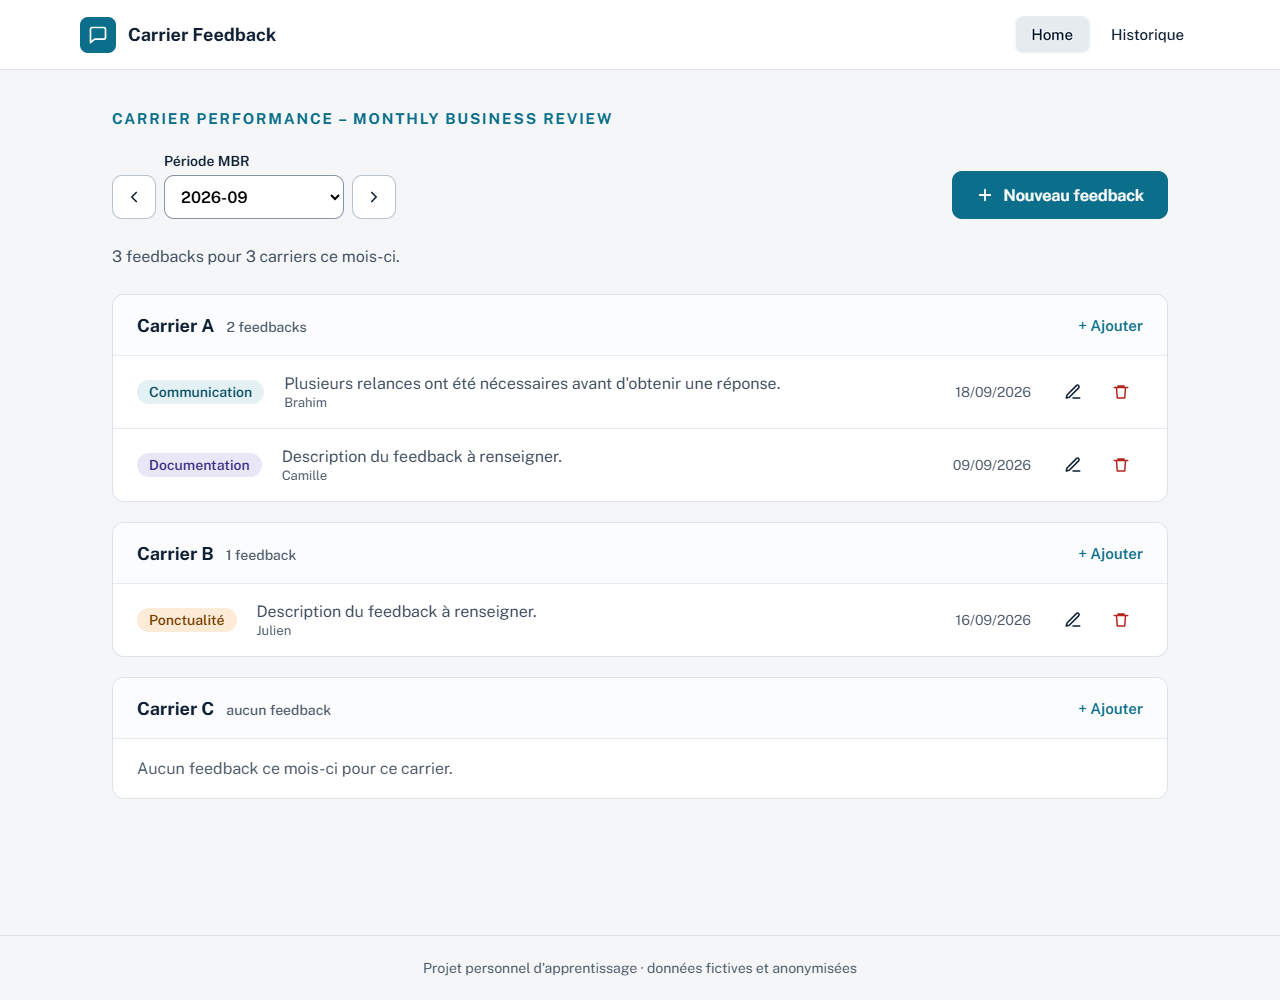
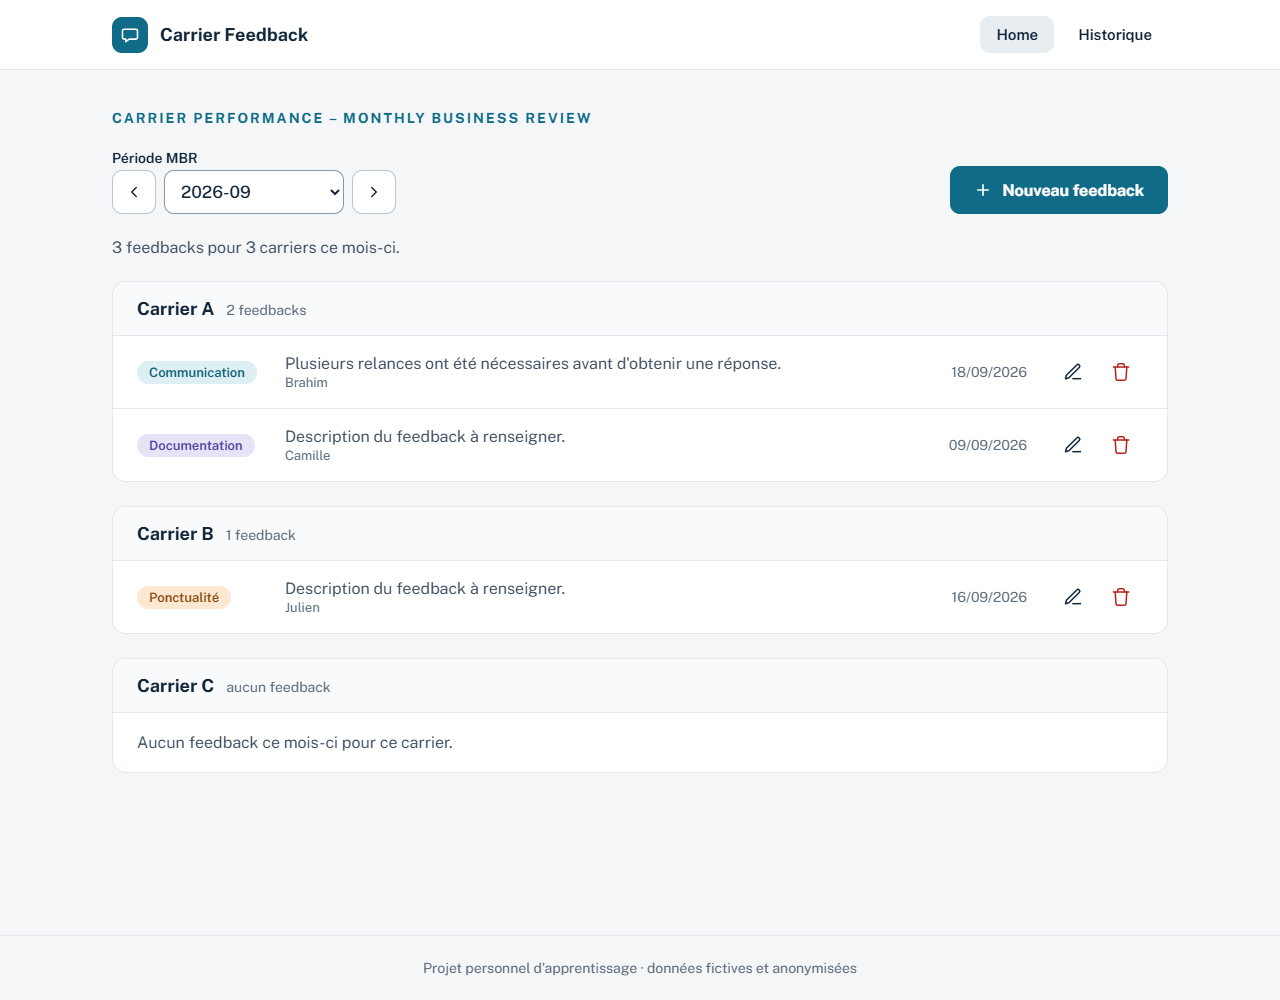
add routes, screens and mockups to README

diff --git a/README.md b/README.md
@@ -110,6 +110,8 @@ description
 createdAt
 ```
 
+Les maquettes utilisent trois catégories : Communication, Ponctualité et Documentation.
+
 ---
 
 ## Relations
@@ -150,45 +152,115 @@ Chaque feedback est associé à un seul carrier et à un seul auteur.
 | US-02 | En tant qu'utilisateur, je souhaite choisir un mois et voir les feedbacks par carrier afin de préparer la MBR. | Sélecteur de période. Un bloc par carrier avec ses feedbacks et leur auteur. Carriers sans feedback affichés. |
 | US-03 | En tant qu'utilisateur, je souhaite modifier un feedback. | Pop-up préremplie, données sauvegardées. |
 | US-04 | En tant qu'utilisateur, je souhaite supprimer un feedback. | Pop-up de confirmation avant suppression. |
-| US-05 | En tant qu'utilisateur, je souhaite filtrer l'historique des feedbacks. | Filtre par carrier, période MBR et catégorie, combinables. |
+| US-05 | En tant qu'utilisateur, je souhaite filtrer l'historique des feedbacks. | Filtre par carrier, période MBR et catégorie, combinables. Bouton de réinitialisation des filtres. |
 
 ---
 
 ## Écrans du MVP
 
-L'application compte **2 pages** et **3 pop-ups**.
+L'application compte **2 pages** et **3 pop-ups**. Toutes les pages partagent la même barre de navigation (logo « Carrier Feedback », onglets **Home** et **Historique**) et un pied de page rappelant que les données sont fictives et anonymisées.
 
 ### Pages
 
-#### Préparer la MBR (page d'accueil, `/`)
+#### Home (page d'accueil, `/`)
 
-- titre « Carrier Performance – Monthly Business Review » ;
-- sélecteur de période MBR (avec passage au mois précédent ou suivant) ;
-- un bloc par carrier avec ses feedbacks, l'auteur et les actions Modifier / Supprimer ;
-- bouton « Nouveau feedback » et bouton « Ajouter » par carrier.
+Page de préparation de la MBR.
+
+- sur-titre « Carrier Performance – Monthly Business Review » ;
+- sélecteur de période MBR (liste déroulante, avec boutons mois précédent / mois suivant) ;
+- bouton « + Nouveau feedback » ;
+- résumé de la période (ex. « 3 feedbacks pour 3 carriers ce mois-ci ») ;
+- un bloc par carrier, avec son nombre de feedbacks ;
+- pour chaque feedback : catégorie (badge), description, auteur, date et actions Modifier / Supprimer (icônes) ;
+- pour un carrier sans feedback : le message « Aucun feedback ce mois-ci pour ce carrier. »
 
 #### Historique (`/feedbacks`)
 
-- historique complet des feedbacks ;
-- filtres de recherche (carrier, période MBR, catégorie) ;
-- affichage regroupé par période MBR ou en liste simple (optionnel).
+- titre et sous-titre « Retrouvez un ancien retour, toutes périodes confondues. » ;
+- bouton « + Nouveau feedback » ;
+- filtres carrier, période MBR et catégorie (listes déroulantes, par défaut « Tous les carriers », « Toutes les périodes », « Toutes les catégories ») et bouton « Réinitialiser » ;
+- nombre de feedbacks affichés ;
+- bascule d'affichage : « Par période MBR » (par défaut, un groupe par mois) ou « Liste simple » ;
+- pour chaque feedback : carrier, catégorie, description, auteur, date et actions Modifier / Supprimer (icônes).
 
 ### Pop-ups
 
 #### Nouveau feedback
 
-- carrier, période MBR, catégorie, description ;
-- auteur choisi dans un menu déroulant.
+- carrier, période MBR (préremplie), catégorie, description ;
+- auteur choisi dans un menu déroulant (« Sélectionner votre nom ») ;
+- boutons « Annuler » et « Enregistrer », fermeture possible avec la croix ;
+- le bouton « + Nouveau feedback » est le seul point d'entrée de la création (Home et Historique) : le carrier se choisit dans la pop-up.
 
 #### Modification d'un feedback
 
 - même formulaire que la création, prérempli ;
-- date de création affichée, non modifiable.
+- date de création affichée (« Créé le 18/09/2026 »), non modifiable ;
+- boutons « Annuler » et « Enregistrer les modifications ».
 
 #### Confirmation de suppression
 
-- rappel du feedback concerné ;
+- titre « Supprimer ce feedback ? » et avertissement : l'action est définitive ;
+- rappel du feedback concerné (carrier · catégorie · période MBR, puis description) ;
 - boutons « Annuler » et « Supprimer ».
+
+### Maquettes
+
+Les captures sont rangées dans `docs/maquettes/`.
+
+| Écran | Fichier |
+|-------|---------|
+| Home | `Home_page.png` |
+| Historique | `History_of_feedbacks.png` |
+| Nouveau feedback | `New_feedback_popup.png` |
+| Modification d'un feedback | `Edit_a_feedback_popup.png` |
+| Confirmation de suppression | `Delete_a_feedback.png` |
+
+![Page Home](docs/maquettes/Home_page.png)
+
+![Page Historique](docs/maquettes/History_of_feedbacks.png)
+
+---
+
+## Routes
+
+### Routes front-end (pages)
+
+| Route | Page | Rôle |
+|-------|------|------|
+| `/` | Home | Préparer la MBR : choisir une période et voir les feedbacks regroupés par carrier |
+| `/feedbacks` | Historique | Consulter tous les feedbacks avec filtres |
+
+Les trois pop-ups (création, modification, suppression) ne sont pas des routes : ce sont des composants qui s'ouvrent par-dessus ces deux pages.
+
+Le mois sélectionné et les filtres sont conservés dans l'URL (paramètres de requête), ce qui permet de retrouver ou de partager une vue précise sans ajouter de route :
+
+```text
+/?mbr=2026-09
+/feedbacks?carrier=1&mbr=2026-09&category=Communication
+```
+
+### Routes back-end (API)
+
+Ces routes seront implémentées en **phase 3**, avec PostgreSQL. Pendant le prototype (phase 2), les pages lisent des données de démonstration via la couche d'accès `src/lib/data`, qui reprend la même logique que ces routes pour faciliter le passage à la base de données.
+
+| Méthode | Route | Rôle |
+|---------|-------|------|
+| `GET` | `/api/carriers` | Lister les carriers |
+| `GET` | `/api/authors` | Lister les auteurs (alimente le menu déroulant) |
+| `GET` | `/api/feedbacks` | Lister les feedbacks, avec filtres optionnels `carrierId`, `mbrPeriod`, `category` |
+| `POST` | `/api/feedbacks` | Créer un feedback |
+| `GET` | `/api/feedbacks/:id` | Récupérer un feedback |
+| `PUT` | `/api/feedbacks/:id` | Modifier un feedback |
+| `DELETE` | `/api/feedbacks/:id` | Supprimer un feedback |
+
+Exemple de requête pour la page d'accueil (feedbacks de septembre 2026) :
+
+```text
+GET /api/feedbacks?mbrPeriod=2026-09
+```
+
+Le regroupement par carrier est fait côté front-end, à partir des résultats de `/api/carriers` et `/api/feedbacks`. Cela permet d'afficher aussi les carriers sans feedback sur la période.
 
 ---
 
@@ -239,7 +311,19 @@ carrier-feedback-app/
 │   │   └── types/
 │   └── routes/
 │       ├── +page.svelte
-│       └── feedbacks/
+│       ├── feedbacks/
+│       │   └── +page.svelte
+│       └── api/                      (phase 3)
+│           ├── carriers/
+│           │   └── +server.ts
+│           ├── authors/
+│           │   └── +server.ts
+│           └── feedbacks/
+│               ├── +server.ts
+│               └── [id]/
+│                   └── +server.ts
+├── docs/
+│   └── maquettes/                (captures des maquettes)
 ├── static/
 ├── package.json
 └── README.md
@@ -288,6 +372,7 @@ npm run check
 
 - [ ] Mettre en place PostgreSQL
 - [ ] Créer le schéma de données (Carrier, Author, Feedback)
+- [ ] Créer les routes API (carriers, authors, feedbacks)
 - [ ] Sauvegarder les feedbacks
 - [ ] Héberger l'application pour que les équipes y accèdent
 
